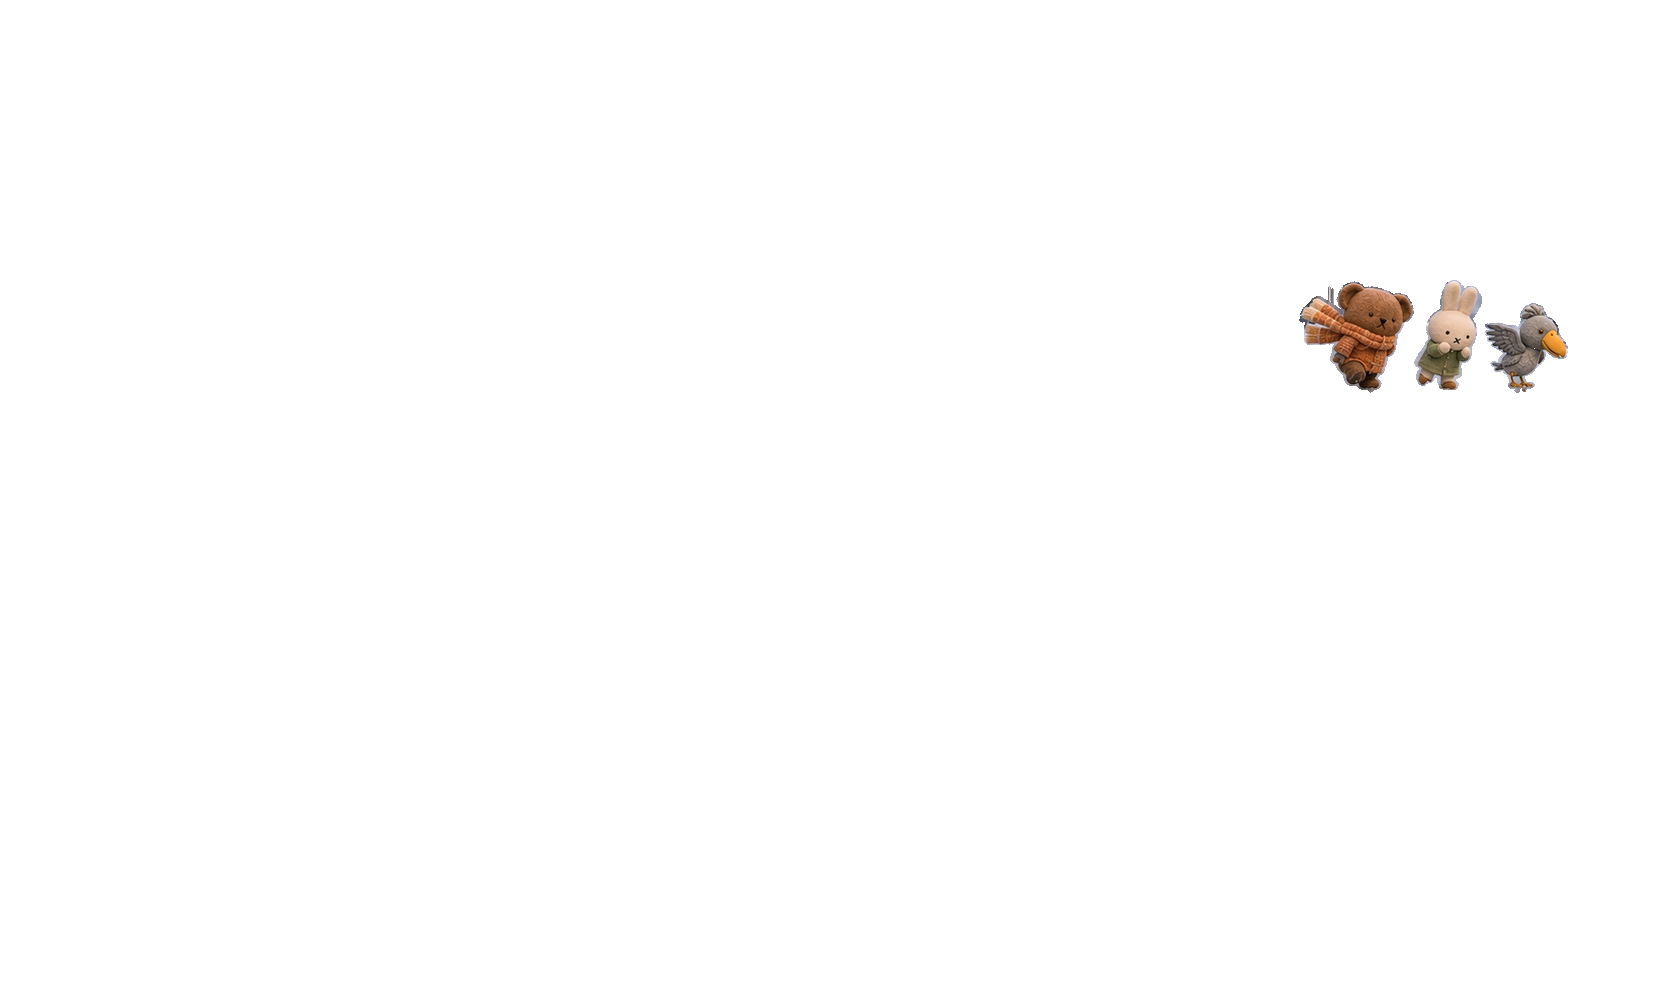
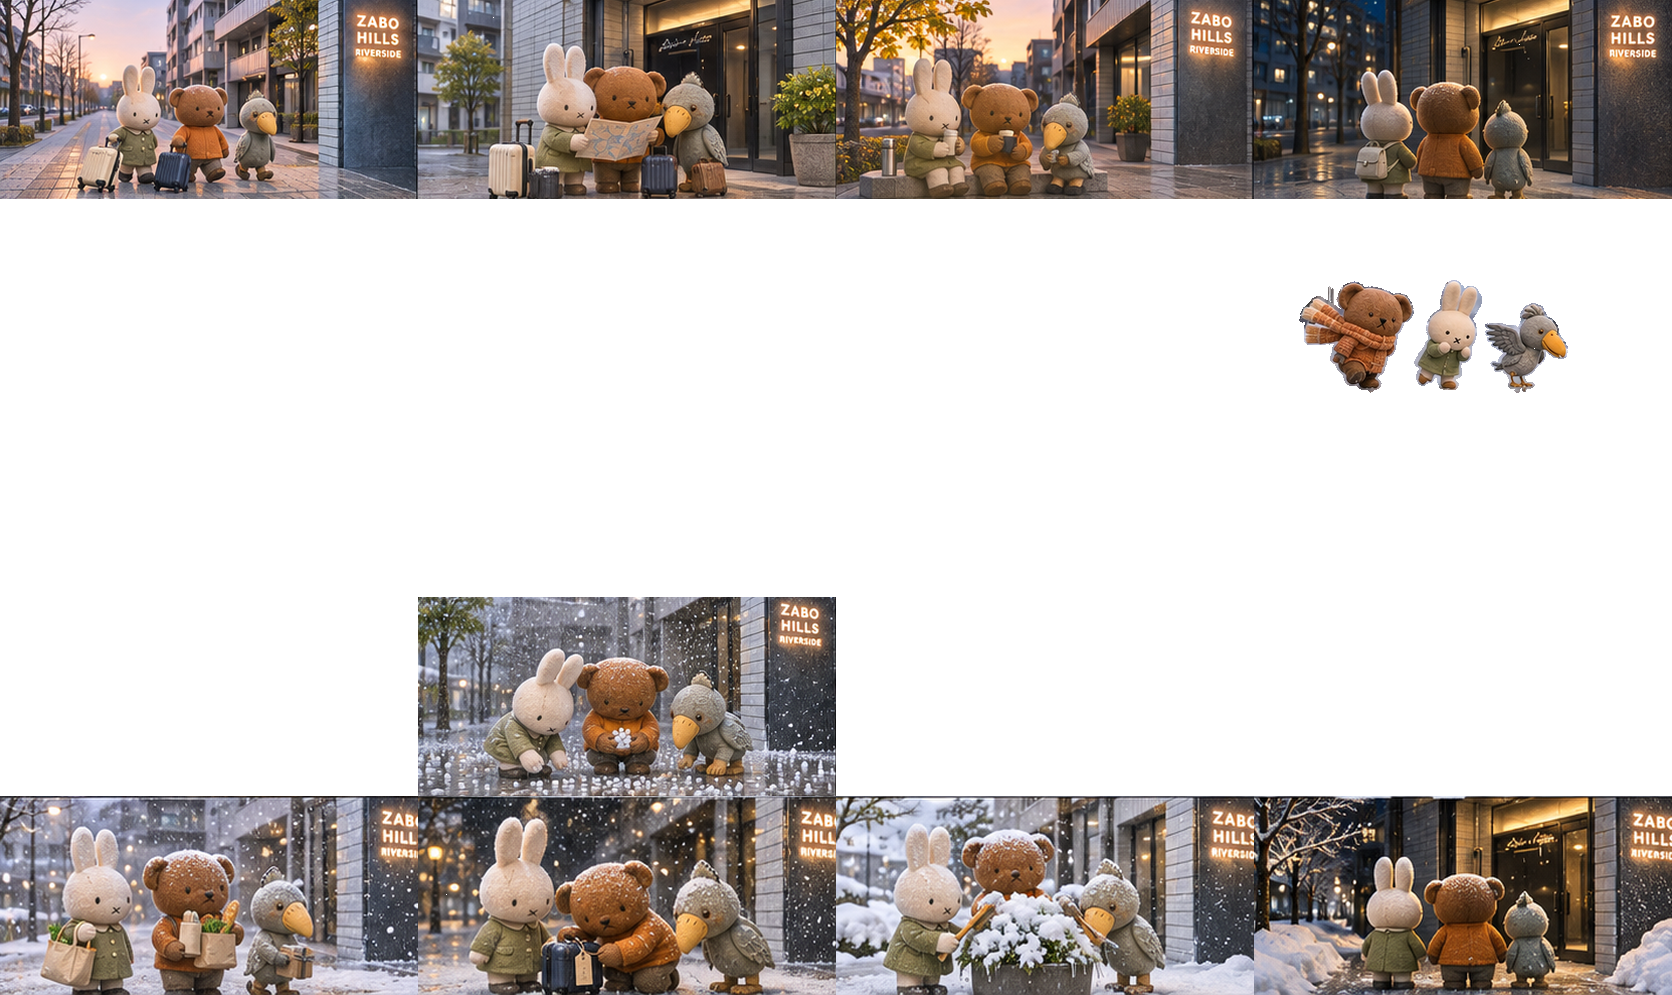
Restore 281 more place and weather illustrations with the approved plush cast

diff --git a/trip-scenery.js b/trip-scenery.js
@@ -103,19 +103,21 @@ const TripScenery = (() => {
     "akan":{"rev":"08afd52883ce","tiles":[4]},
     "biei":{"rev":"94eecdf9c82f","tiles":[2,7]},
     "chitose":{"rev":"2c0921813e0d","tiles":[7]},
+    "chitose-b":{"rev":"50ab490e1700","tiles":[10,11,12,13,14,15,16,18,19]},
     "cranes":{"rev":"9dbd65e7429f","tiles":[14]},
     "default":{"rev":"aac3de9c851c","tiles":[1,7,13,16]},
     "farm":{"rev":"2758f42d4239","tiles":[4,7,8,11,13]},
     "furano":{"rev":"8d89f832a68d","tiles":[14]},
     "haneda":{"rev":"627adc008342","tiles":[4,10,12]},
     "hkairport":{"rev":"811bca323825","tiles":[1]},
-    "hongkong":{"rev":"46eec3983a3b","tiles":[1]},
+    "hongkong":{"rev":"cdac45524053","tiles":[1,13]},
     "ikebukuro":{"rev":"3eac653f613a","tiles":[6,7,12,17,18]},
     "kushiro":{"rev":"8b3a8b0df30f","tiles":[7]},
     "kussharo":{"rev":"93c2e99f0902","tiles":[4,7]},
     "marsh":{"rev":"06ee2357488e","tiles":[4,10]},
     "moere":{"rev":"a93c0904ed41","tiles":[1,4,7,14,17]},
     "narita":{"rev":"3c73241781f7","tiles":[12,15]},
+    "narita-b":{"rev":"c716756f3c0f","tiles":[0,2,3,4,5,6,7,8,9,10]},
     "obihiro":{"rev":"3b67408a9392","tiles":[7,18]},
     "otaru":{"rev":"3791dd540955","tiles":[9]},
     "roppongi":{"rev":"ee08e606e29f","tiles":[12]},
@@ -124,67 +126,95 @@ const TripScenery = (() => {
     "spot-027c9d1e1":{"rev":"232e8945726d","tiles":[9]},
     "spot-06158d8b5":{"rev":"6731f8f91c15","tiles":[10,12]},
     "spot-10e7818ff":{"rev":"b81ab9cee190","tiles":[7]},
+    "spot-1163438dd":{"rev":"c88b184958b6","tiles":[0,4,5,6,7,8,9,10,11,12,13,14,15,16]},
     "spot-147b71db6":{"rev":"416d411bcde1","tiles":[7,9]},
-    "spot-1a6f6070c-b":{"rev":"b28807733656","tiles":[1,10,26]},
-    "spot-1f13a90b8":{"rev":"f4ba10447c2e","tiles":[14]},
+    "spot-1a6f6070c-b":{"rev":"4a7e3923c6c1","tiles":[0,1,3,4,6,7,8,10,12,13,14,15,18,21,25,26,27]},
+    "spot-1d625ae4f-b":{"rev":"11a35598e9aa","tiles":[1,2,3,6,7,9]},
+    "spot-1f13a90b8":{"rev":"7c6cfdd1cf96","tiles":[0,3,5,7,9,10,13,14,15,16,18,19]},
     "spot-1f13a90b8-b":{"rev":"cb3807c7cf11","tiles":[0,1,3,4,5,6,7,8,9,12,14,17,18,20,21,22,23,25,26,27,28,29]},
     "spot-266ac0336":{"rev":"1c92bfe9e476","tiles":[7,12]},
     "spot-269608d5a":{"rev":"fe0e7d68ff92","tiles":[2,14]},
     "spot-2e38dcad4":{"rev":"de1a9beaeb6c","tiles":[11,12]},
     "spot-31c4556cc":{"rev":"a81956a4427b","tiles":[13,14]},
     "spot-33cad23f7":{"rev":"7e078e457fee","tiles":[7]},
-    "spot-33cad23f7-b":{"rev":"9a02e75fd1e4","tiles":[8,12]},
+    "spot-33cad23f7-b":{"rev":"02e718f4d3a5","tiles":[5,6,8,9,12,13,14,15,17,20,21,25,26]},
     "spot-3c6782d38":{"rev":"6d3a6ba12242","tiles":[14]},
-    "spot-3f5a2f8fc":{"rev":"d3dbdbdb554f","tiles":[7]},
+    "spot-3f5a2f8fc":{"rev":"f086f04ef697","tiles":[0,1,2,3,7,13,16,17,18,19]},
     "spot-3f5a2f8fc-b":{"rev":"ff81a2823c9c","tiles":[0,1,3,4,5,6,7,8,9,10,12,13,14,15,17,18,19,20,21,22,23,25,26,27,28,29]},
+    "spot-3fb8e59e3":{"rev":"c785d47e5bd2","tiles":[0,3,4,5,6,7,8,10,11,12,14,15,16,19]},
     "spot-3fb8e59e3-b":{"rev":"049c60898a36","tiles":[0,2,3,4,5,6,8,9,12,13,14,17,18,20,21,25,28,29]},
     "spot-41089f741":{"rev":"8e1833296fca","tiles":[10]},
     "spot-4238daf29":{"rev":"bafaee066355","tiles":[2,9]},
     "spot-4398c48a7":{"rev":"717ad5046dbd","tiles":[9,11,15]},
     "spot-46fc6bef6":{"rev":"975e8b2c7046","tiles":[7]},
+    "spot-4732296ba":{"rev":"66dde1f8f965","tiles":[12]},
     "spot-495afce62":{"rev":"2350bb5f026c","tiles":[12,14]},
     "spot-49779f027":{"rev":"5e265107b247","tiles":[7,12,14]},
     "spot-51652ebdc":{"rev":"09852006ec17","tiles":[9]},
     "spot-54f5ce43e":{"rev":"7b3805db985d","tiles":[16]},
-    "spot-569b08bba":{"rev":"e3191d59a947","tiles":[4]},
+    "spot-569b08bba":{"rev":"081b3124469c","tiles":[4,5,7,8,10,12,14]},
     "spot-569b08bba-b":{"rev":"20a7e322b029","tiles":[0,1,3,4,5,6,8,9,10,14,15,17,18,19,20,21,23,25,26,27,29]},
     "spot-59c3d0ebd":{"rev":"7f8a63b309a1","tiles":[2,9,11,13,17]},
     "spot-5df3b4a31":{"rev":"99a3dba5bf36","tiles":[4]},
     "spot-627afeabe":{"rev":"9ee8d64aa3dd","tiles":[12]},
-    "spot-628c4952e":{"rev":"4fff7bfd6b0c","tiles":[9]},
-    "spot-628c4952e-b":{"rev":"f3eeb2d33596","tiles":[13,18,19,21]},
-    "spot-66c6acb84":{"rev":"e49ad78934ce","tiles":[2,5,13]},
-    "spot-66c6acb84-b":{"rev":"ac5eeeaad7f5","tiles":[1,3,8,12]},
+    "spot-628c4952e":{"rev":"c8a972d247c2","tiles":[4,9]},
+    "spot-628c4952e-b":{"rev":"c32b446fee1d","tiles":[0,1,3,4,5,8,10,13,14,17,18,19,21,22,23,25,26,27,28]},
+    "spot-66c6acb84":{"rev":"97246766c9c9","tiles":[2,4,5,13]},
+    "spot-66c6acb84-b":{"rev":"d1ce065201b9","tiles":[0,1,3,4,6,7,8,10,12,13,14,15,17,18,19,20,21,23,25,26,27,28]},
+    "spot-697bbef9b":{"rev":"69ad19df1442","tiles":[0,1,2,3,4,6,8,9,13,16,17,18,19]},
     "spot-697bbef9b-b":{"rev":"5614e56eafc1","tiles":[0,1,2,3,4,5,6,7,8,9,10,12,13,14,15,17,19,20,21,25,26,27,28,29]},
-    "spot-78367cc4f":{"rev":"45ada9a2a360","tiles":[15]},
+    "spot-78367cc4f":{"rev":"338311576cd1","tiles":[13,15]},
     "spot-7955326ed":{"rev":"11c74f603f73","tiles":[8,12,14]},
+    "spot-79865f593":{"rev":"68a20e51f5c4","tiles":[0,8,9,12,13,16]},
     "spot-79865f593-b":{"rev":"6c750f7ada77","tiles":[0,1,3,4,5,6,7,8,9,10,12,13,14,15,18,19,20,21,22,23,25,27,28,29]},
     "spot-7c1b27ec2":{"rev":"a793d4916773","tiles":[4,7]},
-    "spot-7fef43934":{"rev":"8377d7144aab","tiles":[9]},
+    "spot-7fef43934":{"rev":"8d9ca06408b6","tiles":[9,13,18]},
     "spot-86577f3e8":{"rev":"cf23b9d582dc","tiles":[7]},
-    "spot-86b29bbb2":{"rev":"28c43988ada4","tiles":[7]},
+    "spot-86b29bbb2":{"rev":"be6334feaaa8","tiles":[7,13]},
     "spot-881d1794c":{"rev":"a6f83018e614","tiles":[13]},
     "spot-885eb86b5":{"rev":"c488ce68dc31","tiles":[13]},
-    "spot-89ba4f10d":{"rev":"88980e85e578","tiles":[4,7]},
-    "spot-8f335641b":{"rev":"64c0056e3a69","tiles":[7,10]},
+    "spot-89ba4f10d":{"rev":"dfea1c50ecc3","tiles":[4,7,12]},
+    "spot-8f335641b":{"rev":"922d7a63f424","tiles":[7,10,13]},
     "spot-90e680279":{"rev":"26e33f022d33","tiles":[11]},
     "spot-a52910691":{"rev":"7df4c439ea49","tiles":[4]},
+    "spot-a7566ef75":{"rev":"0f88d3903477","tiles":[0,3,4,7,8,11,12,13,15,16,18,19]},
     "spot-a7566ef75-b":{"rev":"b43bf48b71d1","tiles":[0,3,4,5,6,7,8,9,10,12,13,14,17,23,25,26,28,29]},
-    "spot-ac4485fba":{"rev":"e0348b2b63c4","tiles":[7]},
+    "spot-ac4485fba":{"rev":"20045b428de9","tiles":[7,13]},
+    "spot-b531cf1e9":{"rev":"3e8b08858efe","tiles":[9]},
     "spot-bbf221799":{"rev":"d18150d38f81","tiles":[13]},
     "spot-bbf221799-b":{"rev":"041425d3fe69","tiles":[0,3,4,5,6,7,8,9,10,12,13,14,17,18,19,20,21,22,23,25,26,27,28,29]},
-    "spot-c6a0e8931":{"rev":"7ac9c66853af","tiles":[1,17]},
+    "spot-c01dc34a3":{"rev":"07081ae18302","tiles":[7]},
+    "spot-c1f3498b7":{"rev":"e61fa885f1ef","tiles":[7]},
+    "spot-c6a0e8931":{"rev":"a8aa7c46d38d","tiles":[1,8,11,12,17]},
     "spot-c6a0e8931-b":{"rev":"2c6067b541b1","tiles":[0,3,4,6,8,12,13,14,15,19,21,25,27,29]},
-    "spot-cc31e7e93-b":{"rev":"a300b69707fe","tiles":[0,2,4,5,8,9,10,13]},
+    "spot-c8601530f":{"rev":"7312cb0824e0","tiles":[5]},
+    "spot-cb578c594":{"rev":"f01dbf52bf5e","tiles":[8]},
+    "spot-cc31e7e93":{"rev":"8600a27d27de","tiles":[4,5,9,10,12,15]},
+    "spot-cc31e7e93-b":{"rev":"c63b5da4e2f2","tiles":[0,1,2,3,4,5,8,9,10,13,14,17,18,19,21]},
     "spot-ceed47a35":{"rev":"050bdaa649fd","tiles":[13]},
     "spot-ceed47a35-b":{"rev":"91959746e08d","tiles":[0,1,2,3,4,5,6,8,13,14,15,17,19,21,25,27,28]},
+    "spot-d1c54f9ac":{"rev":"54ac5820a87d","tiles":[7]},
+    "spot-da027a45c":{"rev":"c8dafd9e73f6","tiles":[7,14]},
+    "spot-df94bb662":{"rev":"11f36ffa0d5c","tiles":[6]},
+    "spot-e2a5a2ae7":{"rev":"1a46dbc7af78","tiles":[11]},
+    "spot-e2b4a3c27":{"rev":"534816a599e4","tiles":[0,3,5,7,9,10,12,13,15,18]},
     "spot-e2b4a3c27-b":{"rev":"c48b26b448b2","tiles":[0,1,2,3,5,6,8,9,10,13,16,18,19,20,21,25,26,27,28,29]},
-    "spot-e3447714a":{"rev":"a64553f1801d","tiles":[13]},
+    "spot-e3447714a":{"rev":"efe1e24c9597","tiles":[8,11,13]},
     "spot-e4f890e25":{"rev":"cbde259250fd","tiles":[13]},
+    "spot-e67324d3f":{"rev":"26c45c1deca1","tiles":[0,7,12,18,19]},
     "spot-e67324d3f-b":{"rev":"0722095dadd1","tiles":[0,2,3,4,6,7,8,9,10,12,13,14,15,17,19,20,21,22,25,26,27,28,29]},
+    "spot-efe273a59-b":{"rev":"a0235092a66f","tiles":[2,4,12,14,15,18,19,20,23,25,26,28,29]},
+    "spot-f029df4f6":{"rev":"024558e1a090","tiles":[4,5,6,8,11,12,14,19]},
     "spot-f029df4f6-b":{"rev":"3688c77339ed","tiles":[1,2,3,4,5,6,7,8,9,10,12,13,14,17,22,25,26,28,29]},
+    "spot-f3cd60482-b":{"rev":"7e42452c5bf0","tiles":[1,4,8,20,24,26,27,28]},
+    "spot-f3d63d0ed":{"rev":"b2ee43e2f4b2","tiles":[13]},
+    "spot-f7cce1fae":{"rev":"a200eee98c5a","tiles":[7,13]},
     "spot-f7cce1fae-b":{"rev":"3d2d21a5bf5c","tiles":[10,11,17,24,25,29]},
-    "tokachi-b":{"rev":"d6995c2b7eae","tiles":[1,2,4,5,6,8,10,12,14,15,16,18,19,20,21,22,23,25,26,27,28]},
+    "spot-fb71239cf":{"rev":"33df4fa40af7","tiles":[7,8]},
+    "spot-fb71239cf-b":{"rev":"0b3240e57428","tiles":[0,1,5,6,8,9,10,14,15,16,17,20,21,23,26]},
+    "tokachi":{"rev":"b962b660da4e","tiles":[2]},
+    "tokachi-b":{"rev":"a5252833cd1c","tiles":[0,1,2,3,4,5,6,7,8,9,10,11,12,13,14,15,16,17,18,19,20,21,22,23,25,26,27,28]},
+    "tokyo":{"rev":"6da641a43c64","tiles":[7,11]},
     "tomamu":{"rev":"914c9739a3e3","tiles":[4,14]},
     "toya":{"rev":"28205ef6262d","tiles":[7]}
   };

diff --git a/index.html b/index.html
@@ -1,5 +1,5 @@
 <!doctype html>
-<html lang="zh-HK" data-build="20261124-v65">
+<html lang="zh-HK" data-build="20261124-v66">
 <head>
 <meta charset="utf-8">
 <meta name="viewport" content="width=device-width, initial-scale=1, viewport-fit=cover">
@@ -1116,7 +1116,7 @@
       <button data-act="trips">切換旅程</button>
       <button data-act="settings">設定</button>
       <div class="verrow">
-        <div id="ver" data-build="20261124-v65" style="padding-top:0">v65</div>
+        <div id="ver" data-build="20261124-v66" style="padding-top:0">v66</div>
         <button class="forceup" data-act="forceup" type="button">強制更新</button>
       </div>
     </div>
@@ -1182,7 +1182,7 @@
   var SBK = 'sb_publishable_YROUDaSxinrbHH4g7q8gmQ_4za7Ohfj';
   var TABLE='trip_log', AI_URL=SB+'/functions/v1/trip-ai';
   var APP='trip', SESS_KEY='appSession.trip', AUTH=SB+'/functions/v1/app-auth';
-  var APP_VER='20261124-v65';
+  var APP_VER='20261124-v66';
 
   // kind：類型定義（icon、名、有冇座標、預設時間 label）
   var KINDS={
